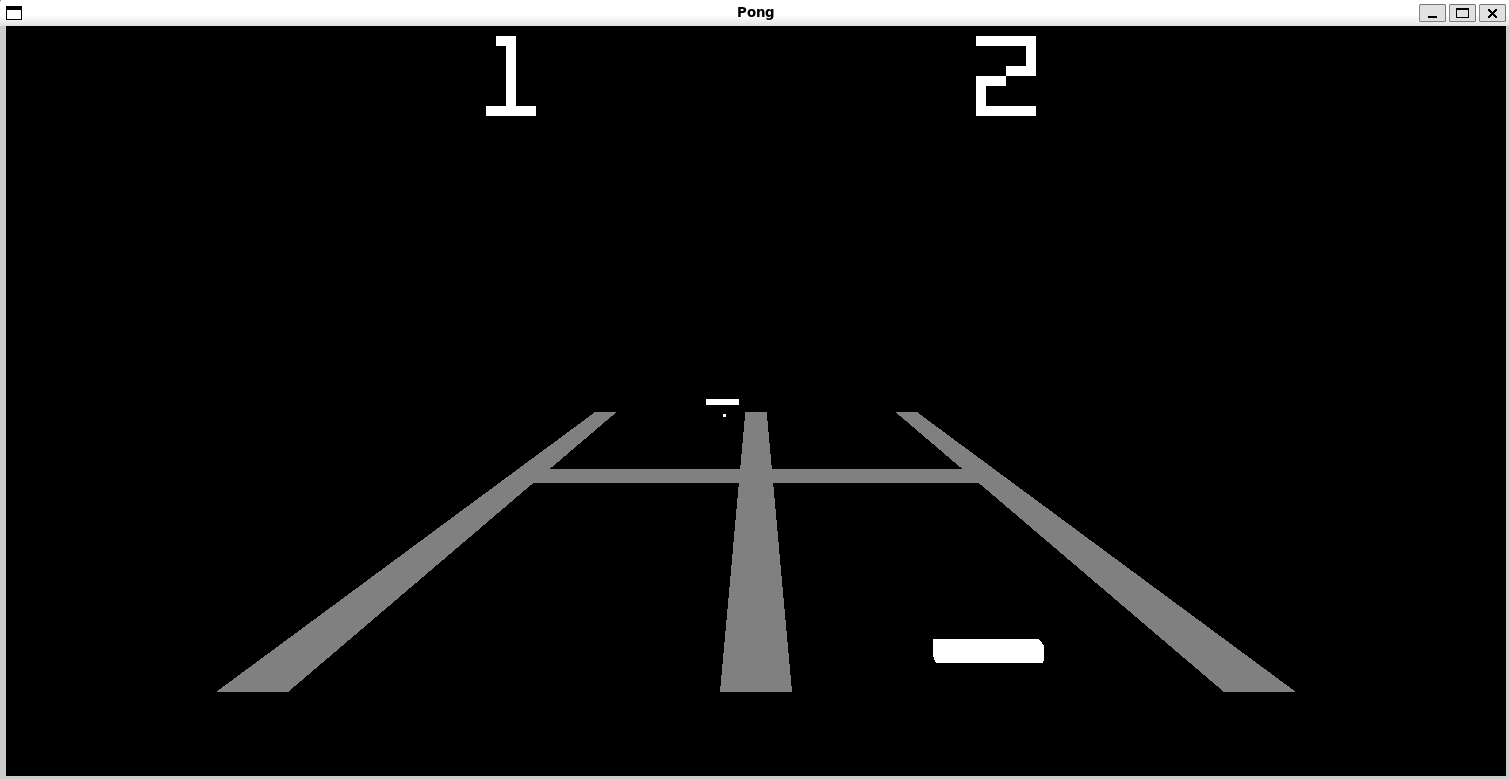
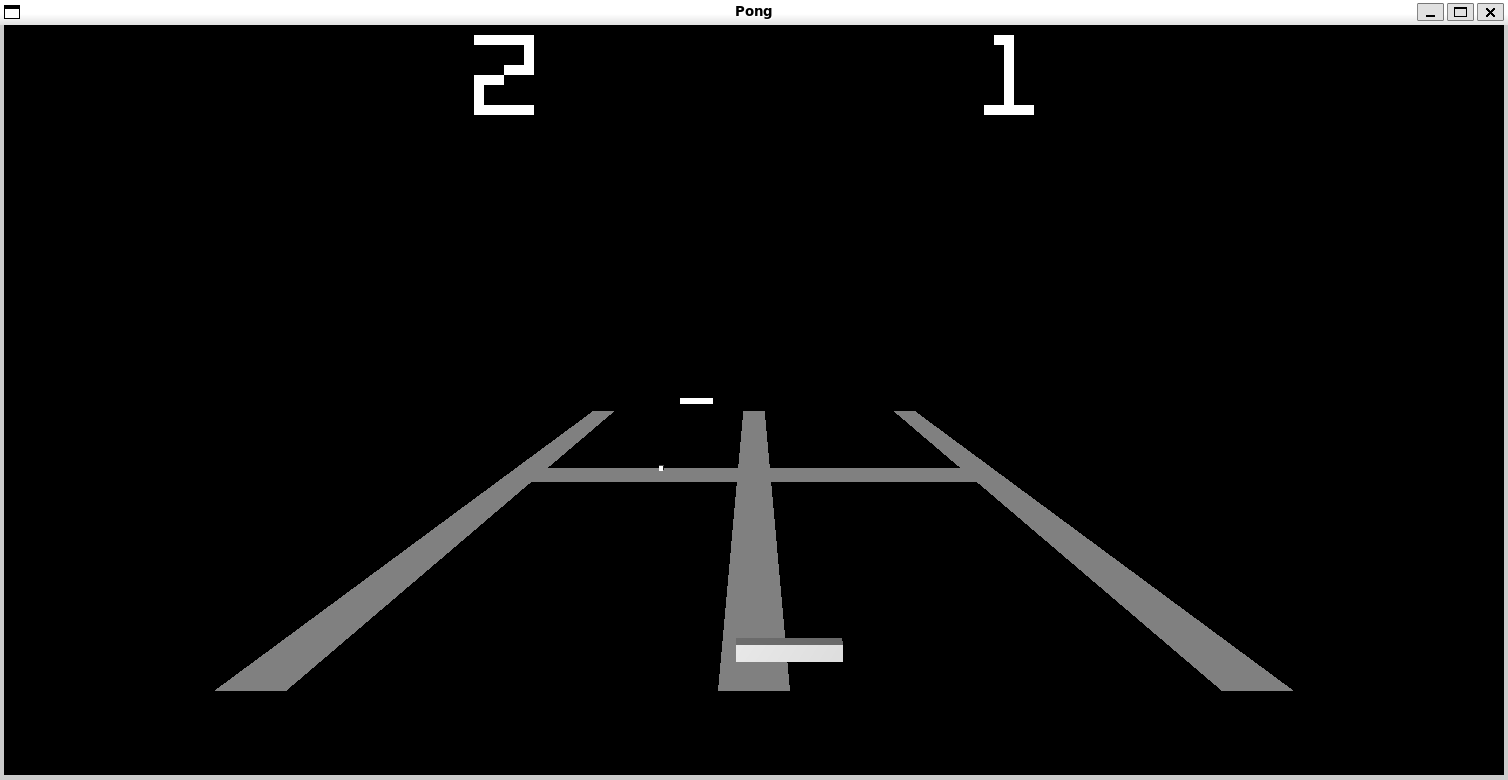
Compiler fixes and README gameplay image update

diff --git a/README.md b/README.md
@@ -51,7 +51,3 @@ The near paddle is controlled using the `A` and `D` keys to move near and right 
 Each time the ball hits a paddle, the ball's speed will increase. The player that most recently lost a point will be given the first serve of the next round. The near player will always start with the first serve of the game.
 
 The winner is the first to get to 10 points.
-
-## To do
-
- - Cool lighting
